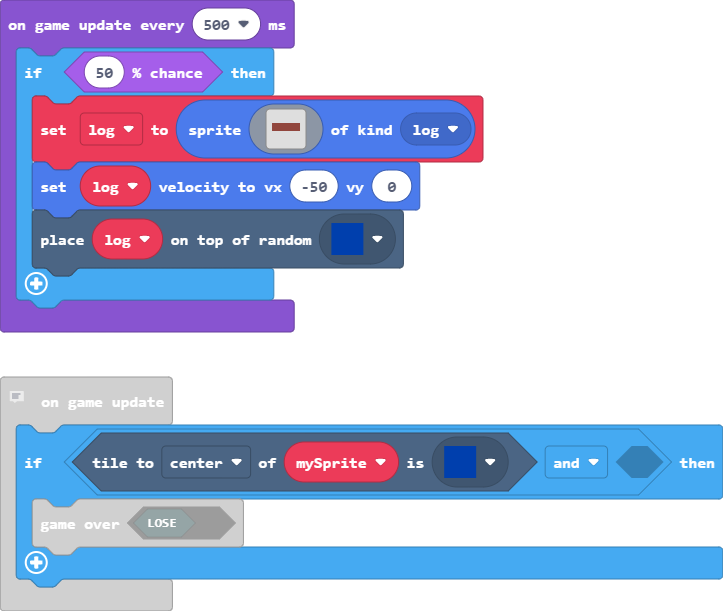
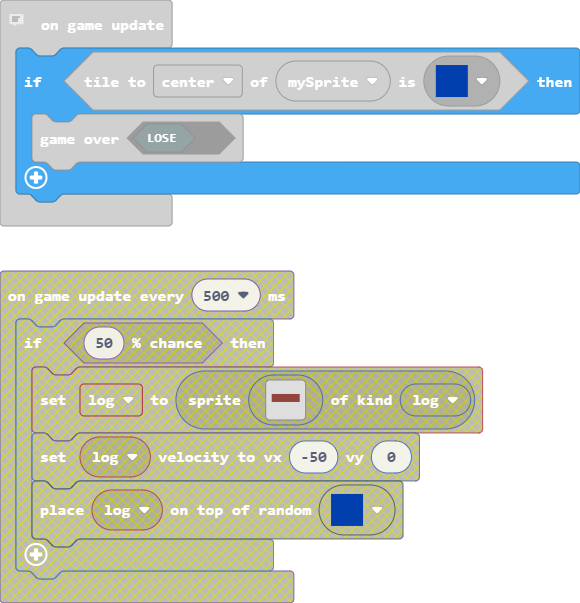
Update pxt.json, main.blocks, main.ts, tilemap.g.ts

diff --git a/main.ts b/main.ts
@@ -21,7 +21,6 @@ sprites.onOverlap(SpriteKind.Player, SpriteKind.Enemy, function (sprite, otherSp
     game.gameOver(false)
     music.play(music.melodyPlayable(music.powerDown), music.PlaybackMode.InBackground)
 })
-let log: Sprite = null
 let car4: Sprite = null
 let car3: Sprite = null
 let car2: Sprite = null
@@ -50,7 +49,7 @@ mySprite.setPosition(75, 380)
 scene.cameraFollowSprite(mySprite)
 // game over if sprite touches "water"
 game.onUpdate(function () {
-    if (mySprite.tileKindAt(TileDirection.Center, assets.tile`myTile10`) && false) {
+    if (mySprite.tileKindAt(TileDirection.Center, assets.tile`myTile10`)) {
         game.gameOver(false)
     }
 })
@@ -138,28 +137,4 @@ game.onUpdateInterval(750, function () {
     car4.setVelocity(50, 0)
     tiles.placeOnRandomTile(car4, assets.tile`myTile3`)
     car4.setFlag(SpriteFlag.DestroyOnWall, true)
-})
-game.onUpdateInterval(500, function () {
-    if (Math.percentChance(50)) {
-        log = sprites.create(img`
-            . . . . . . . . . . . . . . . . 
-            . . . . . . . . . . . . . . . . 
-            . . . . . . . . . . . . . . . . 
-            . . . . . . . . . . . . . . . . 
-            . . . . . . . . . . . . . . . . 
-            . e e e e e e e e e e e e e e . 
-            . e e e e e e e e e e e e e e . 
-            . e e e e e e e e e e e e e e . 
-            . e e e e e e e e e e e e e e . 
-            . . . . . . . . . . . . . . . . 
-            . . . . . . . . . . . . . . . . 
-            . . . . . . . . . . . . . . . . 
-            . . . . . . . . . . . . . . . . 
-            . . . . . . . . . . . . . . . . 
-            . . . . . . . . . . . . . . . . 
-            . . . . . . . . . . . . . . . . 
-            `, SpriteKind.log)
-        log.setVelocity(-50, 0)
-        tiles.placeOnRandomTile(log, assets.tile`myTile10`)
-    }
 })

diff --git a/tilemap.g.ts b/tilemap.g.ts
@@ -49,7 +49,7 @@ namespace myTiles {
 . . . . . . . . . . . . . . . . 
 `, [myTiles.transparency16], TileScale.Sixteen);
             case "level1":
[2 lines of base64/hex data omitted]
 ..............
 ..............
 ..............
